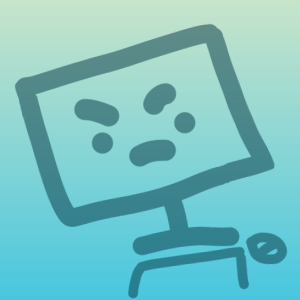
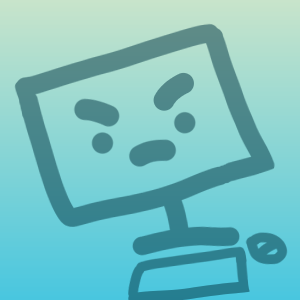
computer picture v3, random ships can be disabled

Changed region(s): [[0.42, 0.93, 0.84, 1.0], [0.48, 0.24, 0.66, 0.39]]

diff --git a/src/components/pages/Game/UserSidebar.js b/src/components/pages/Game/UserSidebar.js
@@ -82,6 +82,7 @@ export default function UserSidebar(props) {
         );
     }
 
+    console.log(props.allowRandom)
     if (props.type === "placement-player-A" && allShipsPlaced === false) {
         return (
             <>
@@ -165,7 +166,7 @@ export default function UserSidebar(props) {
                                 sound.playPick();
                                 props.randomShipPlacement(props.player, props.setState);
                             }}
-                            disabled={false} />
+                            disabled={!props.allowRandom} />
                     </div>
                 </div>
             </>
@@ -378,7 +379,7 @@ export default function UserSidebar(props) {
 
     if (props.type === 'my-turn-A') {
         return (
-            <div className='user-sidebar-right turn'>
+            <div className='user-sidebar-left turn'>
                 <div className="user-sidebar-header-left">
                     <ProfilePictureMedium src={props.player.user.image} />
                     <div className="user-sidebar-header-username-left">
@@ -427,7 +428,7 @@ export default function UserSidebar(props) {
 
     if (props.type === 'not-my-turn-A') {
         return (
-            <div className='user-sidebar-right waiting'>
+            <div className='user-sidebar-left waiting'>
                 <div className="user-sidebar-header-left">
                     <ProfilePictureMedium src={props.player.user.image} />
                     <div className="user-sidebar-header-username-left">

diff --git a/src/components/pages/Game/UserSidebar.css b/src/components/pages/Game/UserSidebar.css
@@ -1,5 +1,6 @@
 .user-sidebar-left {
-    position: fixed;
+    position: relative;
+    top: 0;
     width: 19.5rem;
     min-width: 19.5rem;
     max-width: 19.5rem;
@@ -16,7 +17,8 @@
 }
 
 .user-sidebar-right {
-    position: fixed;
+    position: relative;
+    top: 0;
     width: 19.5rem;
     min-width: 19.5rem;
     max-width: 19.5rem;
@@ -32,13 +34,15 @@
         rgba(0, 0, 0, 0.23) 0px 3px 6px;
 }
 
-/* .waiting {
-    margin-bottom: 20rem;
+.waiting {
+    position: relative;
+    top: 0;
+    margin-bottom: 22rem;
 }
 
 .turn {
     margin-bottom: 18rem;
-} */
+}
 
 .user-sidebar-header-left {
     display: flex;

diff --git a/src/components/pages/Game/Game.js b/src/components/pages/Game/Game.js
@@ -71,7 +71,7 @@ export default function Game(props) {
             "Komputer",
             null,
             null,
-            'https://raw.githubusercontent.com/julitagajewska/Battleships/scraped-version/src/components/assets/computer.png?token=GHSAT0AAAAAAB4QLGQOACCW7O34NRMTZVBYY6BWQ2Q',
+            'https://raw.githubusercontent.com/julitagajewska/Battleships/scraped-version/src/components/assets/computer2.png?token=GHSAT0AAAAAAB4QLGQPVVEMF25EOQH3B57YY6BWZ3A',
             null
         );
 

diff --git a/src/components/reusable/buttons/IconOnlyLargeButton.js b/src/components/reusable/buttons/IconOnlyLargeButton.js
@@ -2,6 +2,7 @@ import React from 'react';
 import './IconOnlyLargeButton.css';
 
 export default function IconOnlyButton({ Icon, color, onClick, disabled, id }) {
+    console.log(disabled)
     return (
         <button className="icon-only-large-button" style={{ backgroundColor: `${color}` }} onClick={(e) => onClick(e)} disabled={disabled}>
             <Icon className="icon-only-button-large-icon" id={id} size={"30px"} />
